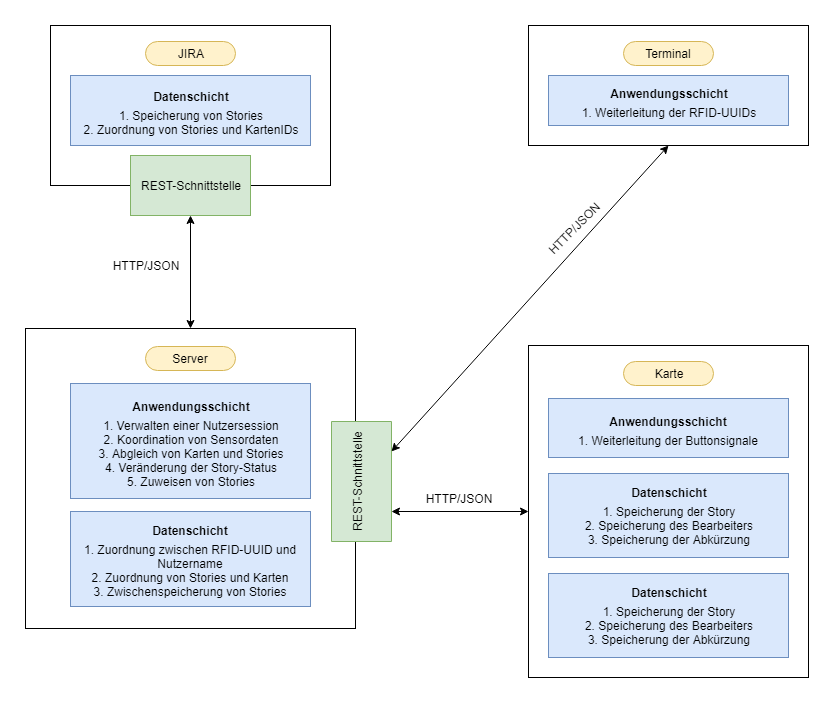
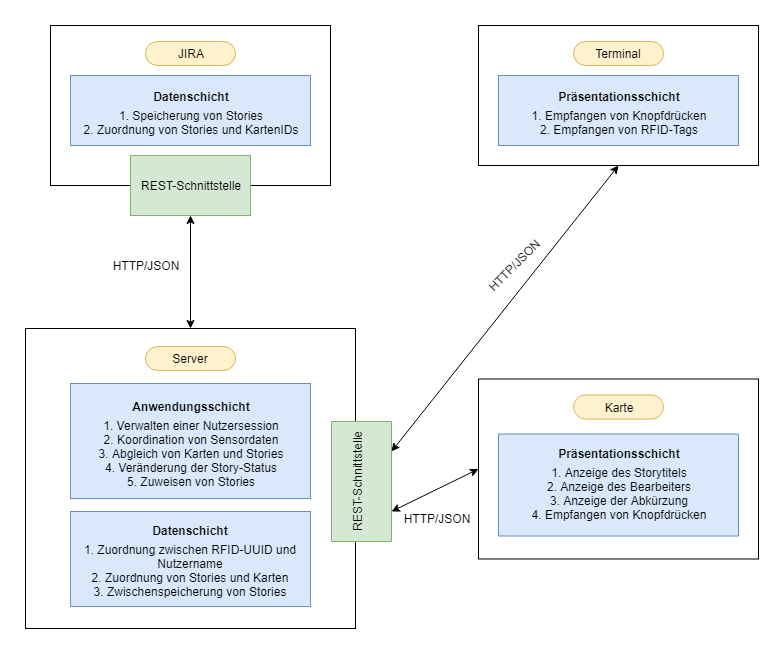
[DOC] Feedback from PP Review

diff --git a/Dokumente/Dokumentation.tex b/Dokumente/Dokumentation.tex
@@ -21,7 +21,7 @@ tmargin={2.5cm},bmargin = {2.5cm}]{geometry}
 		\subtitle{Praxisprojekt}
 		\author{Alexander Strutz \vspace{0.5cm}\\ Betreuer: 
 		Prof. Dr. Matthias Böhmer,\\Oliver Blum}
- 		\date{30. Juli 2019}
+ 		\date{29. Juli 2019}
 		\maketitle
 	\end{titlepage}
 	
@@ -32,8 +32,21 @@ tmargin={2.5cm},bmargin = {2.5cm}]{geometry}
 		Laut der Studie ''Status Quo Agile 2016/2017'' der Hochschule Koblenz verwenden 63\% der Software-Firmen und Agenturen agile Methoden in ihren täglichen Arbeitsprozessen \cite{hskob}. Agile, auch leichtgewichtig genannte Prozesse, können in verschiedenen Frameworks realisiert werden, jedoch orientieren sich alle an dem Rahmenwerk des ''Agilen Manifests''. Das agile Manifest setzt den Fokus auf die vier Werte ''Individuals and interactions over processes and tools'', ''Working software over comprehensive documentation'', ''Customer collaboration over contract negotiation'' und ''Responding to change over following a plan'' \cite{manifest}. Aus diesen Werten ergeben sich zwölf Prinzipien, die dem agilen Manifest angehören. Jedes agile Framework versucht die Werte und Prinzipien des Manifests umzusetzen und praktisch zu integrieren. \\ \\
 		Das in 82\% der befragten Firmen genutzte Framework ''Scrum'' gilt als meist genutzte agile Arbeitsmethode \cite{hskob}. Im Vordergrund stehen hierbei selbstorganisierte Teams. Diese Teams arbeiten interdisziplinär und bestehen aus drei bis neun Mitgliedern \cite{guide}. Sie ''entscheiden selbst, wie sie ihre Arbeit am besten erledigen, anstatt dieses durch andere Personen außerhalb des Teams vorgegeben zu bekommen'' \cite{guide}. Die zu erledigenden Aufgaben (''Stories'' genannt) werden durch den ''Product Owner'', einem Mitglied des Teams, in Absprache mit dem Kunden definiert und im ''Product Backlog'' priorisiert. Das Product Backlog listet alle Stories auf, die vom Product Owner erstellt wurden.\\ \\
 		Zu Beginn eines jeden Arbeitsinkrements, auch ''Sprint'' genannt, wählt das Team gemäß Priorisierung die Stories, die im folgenden Sprint zu bearbeiten sind. Jeder Sprint erhält ebenfalls ein Backlog, in dem Stories des Sprints nach ihrer Priorisierung gelistet enthalten sind. \\ \\
-		Die Stories werden anhand von ''Story Points'' in ihrer Komplexität geschätzt. Hierbei werden Punkte nicht nach Zeitaufwand, sondern nach vergleichbaren Stories vergeben. Möglich sind Punkte innerhalb der Fibonacci-Folge bis 40. Die Schätzung erfolgt gemeinsam durch das Team in einem sogenannten ''Refinement''. Der Sprint sollte so geplant werden, dass am Sprintende alle gewählten Stories erledigt sind. Eine Story kann hierbei drei Status einnehmen: ''To Do'', ''In Work'' oder ''Done''. Um das Team über die Status der einzelnen Stories informiert zu halten, gibt es täglich das ''Daily''. Hier berichtet jedes Teammitglied welche Story es am Vortag bearbeitet hat und ob sich der Status verändert hat. Um das Sprint Backlog zu visualisieren werden ''Boards'' verwendet. Bei diesen Boards kann es sich um Tafeln, Whiteboards oder ähnliches handeln, auf denen die Stories auf Zetteln ausgedruckt aufgehangen werden. Hierbei gibt es drei Spalten, die die Status der Stories abbilden. Im Daily werden die Stories gemäß dem aktuellen Status verschoben. Die Organisation und Administration des Boards obliegt dem ''Scrum Master'', der ''dafür verantwortlich ist, Scrum entsprechend des Scrum Guides zu fördern und zu unterstützen'' \cite{guide}. \\ \\
-		Das Board dient dem Team zur übersichtlichen Visualisierung des Sprints. Deshalb sollte es sich räumlich nah am Team befinden, bzw. gut vom Team erreichbar sein. Dem Kunden fehlt die Übersicht am Board jedoch, da dieser sich meistens nicht in direkter Nähe zum Team befindet. Daher wird die Darstellung der Stories oft durch Software wie z.B. ''JIRA'' von der Firma Atlassian umgesetzt. Auch hier lassen sich Stories in einem Sprint verplanen, mit Punkten schätzen und mit einem Status versehen. Da das Unternehmen ''kernpunkt'', in welchem diese Arbeit entwickelt wird, JIRA verwendet, fokussiert sich diese Arbeit auf JIRA als digitales Board, sowie die Arbeitsweise im Unternehmen.
+		Die Stories werden anhand von ''Story Points'' in ihrer Komplexität geschätzt. Hierbei werden Punkte nicht nach Zeitaufwand, sondern nach vergleichbaren Stories vergeben. Möglich sind Punkte innerhalb der Fibonacci-Folge bis 40. Die Schätzung erfolgt gemeinsam durch das Team in einem sogenannten ''Refinement''. Der Sprint sollte so geplant werden, dass am Sprintende alle gewählten Stories erledigt sind. Eine Story kann hierbei drei Status einnehmen: ''To Do'', ''In Work'' oder ''Done''. Um das Team über die Status der einzelnen Stories informiert zu halten, gibt es täglich das ''Daily''. Hier berichtet jedes Teammitglied welche Story es am Vortag bearbeitet hat und ob sich der Status verändert hat. Um das Sprint Backlog zu visualisieren werden ''Boards'' verwendet. Bei diesen Boards kann es sich um Tafeln, Whiteboards oder ähnliches handeln, auf denen die Stories auf Zetteln ausgedruckt aufgehangen werden. Hierbei gibt es drei Spalten, die die Status der Stories abbilden. Im Daily werden die Stories gemäß dem aktuellen Status verschoben. Die Organisation und Administration des Boards obliegt dem ''Scrum Master'', der ''dafür verantwortlich ist, Scrum entsprechend des Scrum Guides zu fördern und zu unterstützen'' \cite{guide}.
+		\begin{figure}[H] 
+  				\centering
+    			\includegraphics[height=0.3\textheight]{physicalBoardFar}
+  				\caption{Beispiel eines physischen Boards im Unternehmen kernpunkt}
+  				\label{fig:physKern}
+		\end{figure}
+		\noindent Das Board dient dem Team zur übersichtlichen Visualisierung des Sprints. Deshalb sollte es sich räumlich nah am Team befinden, bzw. gut vom Team erreichbar sein. Dem Kunden fehlt die Übersicht am Board jedoch, da dieser sich meistens nicht in direkter Nähe zum Team befindet. Daher wird die Darstellung der Stories oft durch Software wie z.B. ''JIRA'' von der Firma Atlassian umgesetzt. Auch hier lassen sich Stories in einem Sprint verplanen, mit Punkten schätzen und mit einem Status versehen.
+		 \begin{figure}[H] 
+  				\centering
+    			\includegraphics[height=0.37\textheight]{jiraFar}
+  				\caption{Darstellung einer Story in JIRA}
+  				\label{fig:ANHjirasKernFar}
+			\end{figure}
+		 \noindent Da das Unternehmen ''kernpunkt'', in welchem diese Arbeit entwickelt wird, JIRA verwendet, fokussiert sich diese Arbeit auf JIRA als digitales Board und die zusätzliche Nutzung von physischen Boards
 		\newpage
 		\section{Grundlagen}
 	Im Folgenden wird eine Einleitung in die Domäne, die Problemstellung mit ihren Folgen, sowie den verwendeten Paradigmen gegeben. Anschließend wird aus dieser Recherche eine Forschungsfrage abgeleitet.
@@ -111,20 +124,20 @@ tmargin={2.5cm},bmargin = {2.5cm}]{geometry}
 		\item Adaption der Funktionalität
 		\item Beibehaltung der Haptik 
 	\end{itemize}
-		\subsection{Aktuelle Marktsituation}
-		\subsubsection{Kartenscanner}
+		\subsection{Erhältliche Lösungen auf dem Markt}
+		\subsubsection{Physisches Board mit Nutzung eines Kartenscanners}
 		Eine Möglichkeit analoge und physische Boards zu synchronisieren sind sogenannte Kartenscanner \cite{cardscanner, truffler}. Hierbei werden die ausgedruckten Karten um einen QR-Code ergänzt. Eine Kamera ist auf das physische Board gerichtet und leitet jede Veränderung an das digitale Board weiter. Hierbei werden die QR-Codes zur Identifizierung der einzelnen Stories verwendet. Je nach System sind die Grenzen zwischen den Spalten ebenfalls durch QR-Codes gekennzeichnet. Wenn eine Karte im JIRA verändert wird, wird dies in der Software angezeigt. Die Software kann als JIRA oder als eigene Webapplikation umgesetzt sein. 
 		\\ \\
 		\textbf{Positiv: }Die Kamera bietet während des Sprints eine direkte Anpassung des digitalen Boards an das physische. Darüber hinaus bleibt die Möglichkeit Karten per Hand zu verschieben. Auch das Anzeigen von Karten mit unterschiedlichen Status hilft Inkonsistenzen zu vermeiden.
 		\\ \\
 		\textbf{Negativ: }Eine Fehlerquelle ist hierbei die Kamera. Denn die Erkennung der Karten könnte ausfallen, wenn es z.B. keine ausreichende Beleuchtung gibt. Die QR-Codes nehmen Platz auf den Karten ein ohne einen Mehrwert für das Team darzustellen. Unter Umständen sind somit größere Karten nötig, was wiederum für weniger Platz auf dem Board sorgt. Die Möglichkeit sich eine Story zuzuweisen fehlt auf dem physischen Board. Auch verringert sich der Aufwand der doppelten Sprintvorbereitung nicht, da ebenfalls Karten ausgedruckt werden müssen.
-		\subsubsection{Display mit JIRA}
+		\subsubsection{Display mit Abbildung des JIRA}
 		Die einfachste Lösung das physische Board mit JIRA synchron zu halten ist die Nutzung eines Displays. Dieses Display sollte eine gewisse Größe haben, um das Board anzuzeigen. Während des Dailys verschieben die Teammitglieder die Stories im JIRA mittels eines Rechners, der für das Board da ist.
 		\\ \\
 		\textbf{Positiv: }Durch die direkte Nutzung von JIRA entfällt die Aufgabe einer Synchronisierung. Außerdem können Teammitglieder, die sich nicht in der Firma befinden, am Daily teilnehmen und von überall auf das Board zugreifen. Die gesamte Funktionalität von JIRA kann genutzt werden. So können im Daily Bearbeiter zugewiesen, Storypunkte verändert oder Kommentare geschrieben werden.
 		\\ \\
 		\textbf{Negativ: }Die Kosten eines Display sind deutlich höher als die eines Whiteboards oder einer Tafel in der gleichen Größe. Darüber hinaus kann das Display nach dem Kauf nicht vergrößert werden, während physische Boards mit zusätzlichen Boards erweitert werden können. Dies kann vor allem bei sich stetig verändernden Teams zu einem Problem werden. Die Nutzung eines Displays sorgt außerdem für eine geringere Aufmerksamkeit seitens des Teams \cite{pen}. Die fehlende Haptik senkt die Motivation des Teams \cite{progress}. 
-		\subsubsection{Smartboards}
+		\subsubsection{Smartboards mit Abbildung des JIRA}
 		Die Nachteile eines Displays versuchen Smartboards aufzuheben. Smartboards bieten die Möglichkeit JIRA Boards darzustellen und können statt mit der Maus mit Berührungen gesteuert werden \cite{smart}. Smartboards besitzen kein eigenes Betriebssystem, sondern fungieren auch als Displays. Somit können auf diesen ebenfalls jegliche Informationen angezeigt werden.
 		\\ \\
 		\textbf{Positiv: }Auch hier lassen sich alle Funktionen des JIRA nutzen. Die Synchronisierung entfällt auch hier. Zusätzlich kann man von einer ''Teilhaptik'' sprechen, da man das Display mit den Händen bedienen kann. 
@@ -204,7 +217,7 @@ Die dritte Kernfunktionalität ist die Verbindung mit dem Server. Die Karte muss
 		Zur Identifizierung der Teammitglieder werden RFID-Tags verwendet. Jedes Mitglied erhält einen Tag, der eine eindeutige ID enthält. Die Zuordnung von IDs zu Mitgliedern ist auf dem Server gespeichert. Damit dieser Tag vom Terminal verarbeitet werden kann enthält es einen entsprechenden Sensor. Wie auch bei der Karte soll ein möglichst großer Teil der Anwendungslogik auf den Server ausgelagert werden. Daher liest das Terminal lediglich die IDs aus und sendet sie zusammen mit der aktuellen Uhrzeit an den Server. \\ \\
 		Wird der erste RFID-Tag an den Leser gehalten, beginnt für das System eine Session, also ein Daily mit der ersten angemeldeten Person. Werden nun Karten verschoben, werden sie im JIRA der angemeldeten Person zugewiesen. Sobald der nächste Tag an das Terminal gehalten wird, verändert sich auch der zuzuweisende Bearbeiter der Story. Damit nicht der letzte Teilnehmer des Daily bis zum nächsten Daily ''angemeldet'' bleibt, wird er nach einer Inaktivität von 10 Minuten abgemeldet. \\ \\
 		Alternativ zu einem Anmeldeterminal wäre es auch möglich die Karten mit einem RFID-Sensor auszustatten. Jedoch müssen die Teammitglieder dann ihren Tag an jede Karte einzeln halten, um sich einer Story zuzuweisen, was im Daily störender ist als sich nur zu Beginn anzumelden. Außerdem bekämen die Karten dadurch zum einen mehr Anwendungslogik, aber auch ein größeres Gewicht, was wie zuvor erwähnt vermieden werden soll. \\ 
-		\subsection{Skizzierung der Architektur}
+		\subsection{Skizzierung der Systemarchitektur}
 		In Abbildung \ref{fig:Architekturskizze} wird die verteilte Systemarchitektur erläutert. Hierbei wird das Anwendungsschichtprotokoll HTTP mit der Datenstruktur JSON genutzt. Als Schnittstelle wird hierbei das Konzept REST verwendet.  \\
 		\begin{figure}[htbp] 
   			\centering
@@ -213,7 +226,7 @@ Die dritte Kernfunktionalität ist die Verbindung mit dem Server. Die Karte muss
   			\label{fig:Architekturskizze}
 		\end{figure}
 	\newpage	
-	\section{Technologieentscheidung}
+	\section{Abwägung und Entscheidung zwischen erhältlichen Technologien}
 	In diesem Kapitel werden Technologien für die in der Systemarchitektur enthaltenen Komponenten recherchiert und bewertet. Der Fokus liegt hier auf der Eignung zur Implementation der Anforderungen und Umsetzung der User Stories.
 		\subsection{Mikrocomputer und Mikrocontroller}
 		Jede Karte sowie das Anmeldeterminal benötigen einen eigenen Mikrocontroller. Dieser sollte möglichst klein und leicht sein, um mit wenigen Magneten am Board befestigt zu werden. Für einen Einsatz der Karte über einen Sprint hinweg sollte der Mikrocontroller einen geringen Stromverbrauch haben, sodass er durch einen austauschbaren Akku betrieben werden kann. Von Vorteil ist ein integrierter WLAN-Chip, um Verkabelungen und zusätzliche Hardware zu reduzieren. Weniger relevant sind die Speichergröße und die Rechenleistung, da die meiste Logik auf dem Server hinterlegt werden kann. 
@@ -241,27 +254,29 @@ Daher eignen sich e-Ink Displays sehr gut für eine längere Nutzung, insbesonde
 			Das Modul RDM6300 der Firma Seeedstudio besteht aus einem eigenen Board mit Ein-/Ausgängen. Dazu wird eine Spule, die ein elektromagnetisches Feld erzeugt, mit den Eingängen des Boards verbunden. Die Ausgänge werden mit dem entsprechenden Mikrocontroller verbunden. Diese Architektur hat den Nachteil, dass sie mehr Platz verbraucht und doppelt verkabelt werden muss. Jedoch lässt sich so die Spule bzw. das Board oder Kabel bei einem Defekt einfacher austauschen.
 			\subsubsection{RC522}
 			Der RFID-Reader RC522 ist von verschiedenen Händlern erhältlich und bietet die gleiche Funktionalität wie der RDM6300. Allerdings ist der Leser hier im Modul integriert. So muss nur einmal verkabelt werden. Außerdem nimmt er weniger Platz ein und bietet eine Verbindung über die SPI Schnittstelle an \cite{rfidspecs}. Insbesondere durch die Abmessungen eignet er sich hier besser und wird daher im Prototyp verwendet.
-		\subsection{Veränderungen des Status} \label{changeStatus}
+		\subsection{Veränderungen des Status mittels Sensorik} \label{changeStatus}
 		Um den Status einer Story zu erfassen, soll es möglich sein diesen an einer Karte zu verändern. Wichtig hierbei sind Minimierung möglicher Fehler, eine einfache Wartung und Portierbarkeit. Auch sollte die Lösung keine weitere Stromversorgung seitens der Karte benötigen.
-			\subsubsection{RFID}
+			\subsubsection{Bestimmung der Position durch RFID-Tags}
 			RFID-Reader können entsprechende Tags in sehr kurzer Zeit erkennen und ihre ID auslesen. Daher wäre es auch möglich das Board mit RFID-Folie zu bekleben und die Karten mit Reader auszustatten. Je nach dem um welche Spalte es sich handelt, besitzt diese eine andere ID. Sobald der Reader in der Karte eine neue ID erkennt, leitet er diese an den Server weiter, der dementsprechend den Status der Story verändert. Die Präparierung des Boards wäre ein aufwendiger Prozess. Auch müsste so jede Karte einen RFID-Leser besitzen, wodurch die Karte größer und unhandlicher wird. Außerdem steigt der Stromverbrauch der Karte.
-			\subsubsection{Vibrationssensor}
+			\subsubsection{Ausstatten der Karten mit Vibrationssensor}
 			Vibrationssensoren messen Erschütterungen und geben diese als analogen Wert an einen Mikrocontroller weiter. Je höher die Bewegung, desto höher der entsprechende Wert. Ein solcher Sensor könnte in einer Karte angebracht werden. Wenn eine Karte z.B. in To Do hängt und der Vibrationssensor eine Bewegung vermerkt, kann die Karte diese an den Server weiterleiten. Der Server ändert den Status im JIRA dann auf In Work. Um die Interpretation von allgemeinen Erschütterungen nicht als Statusveränderung zu interpretieren, wird der Sensor erst aktiv, wenn sich ein Teammitglied per RFID am Daily anmeldet. Ein großes Problem ist hier das Zurückstellen von Stories und Karten. So kann ein Teammitglied eine Karte nicht in einen vorherigen Status überführen. Außerdem gibt es Dailies, in denen die Teammitglieder die Karte über die sie reden in die Hand nehmen, obwohl sie den Status nicht verändern. Aufgrund dieser Fehleranfälligkeit eignen sich Vibrationssensoren nicht.
-			\subsubsection{Infrarot}
+			\subsubsection{Bestimmung der Position durch Infrarot}
 			Infrarotsensoren messen eine Infrarotstrahlung und geben die entsprechende Frequenz zurück. Wenn man das Board mit Infrarotsendern (beispielsweise über jeder Spalte in Richtung Boden) auf verschiedenen Frequenzen ausstattet, könnte man diese Strahlung über die Karte auslesen. Allerdings ist dieses Verfahren ungenau, da die Sender die Strahlen nicht gezielt nach unten strahlen können, sondern eher streuen, wie z.B. bei Lampen. Daher ließe sich zwar mit einem Sensor eine Strahlung messen, jedoch könnte man diese nicht exakt einem Sensor zuordnen, wodurch diese Methode zu fehleranfällig ist.
-			\subsubsection{Bluetooth Beacons}
+			\subsubsection{Bestimmung der Position durch Bluetooth Beacons}
 			Eine genauere Positionsmessung bieten Bluetooth Beacons an. Diese senden von ihrem Standort eine eindeutige Kennung, die sogenannte UID, ab. Diese kann ein Client (bspw. ein Smartphone) lesen und dadurch seinen Abstand zum Beacon ermitteln \cite{bluetoothspecs}. Mit mehreren Beacons ist so eine Positionsermittlung des Clients möglich. Karten lassen sich mit eigenen Sensoren so auf dem Board lokalisieren. Das größte Problem stellt hier die Stromversorgung dar. So brauchen die einzelnen Beacons jeweils eine eigene Stromversorgung, aber auch die einzelnen Sensoren benötigen Strom von der Karte. Darüber hinaus ist das System schwieriger einzurichten, da die Beacons für jedes Board (je nach Größe und Anordnung der Spalten) neu konfiguriert werden müssen, insbesondere bei Boards, die nicht nur drei, sondern sechs oder mehr Spalten nebeneinander haben.
-			\subsubsection{Schalter}
+			\subsubsection{Schalter an der Karte zur manuellen Statusveränderung}
 			Die technisch schlichteste Lösung ist ein zusätzlicher Taster, Knopf oder Schalter an einer Karte. Da dieser ein analoges Signal zurückgibt, kann er als Interrupt im Deep Sleep Mode verwendet werden, was den Stromverbrauch niedrig hält. Bei Knopfdruck kann der Status einer Karte ''erhöht'' werden, also von To Do auf In Work auf Done.  Wenn man den Status erniedrigen will, kann man nach Done nochmals den Schalter betätigen, um wieder auf To Do zu kommen. Diese Umsetzung ist auf jedes Board übertragbar und benötigt keine besondere Installation oder Konfiguration. Auch lässt sich die Zuweisung damit identifizieren. Wenn nach einer Anmeldung im Daily der Knopf betätigt wird, wird der Status verändert und der angemeldete Mitarbeiter der Story zugewiesen. Wenn eine Story auf ein anderes Teammitglied übertragen werden soll, kann nach Anmeldung der Knopf betätigt werden. Wenn das entsprechende Mitglied dann noch nicht zugewiesen ist, wird es zugewiesen. Erst ein weiterer Knopfdruck ändert den Status. \\ \\
 Jedoch ist ein Schalter keine automatisierte Lösung, wodurch das Daily komplizierter und länger wird. Insbesondere das Verschieben in einen vorherigen Status muss somit mit dreimaligem Drücken kenntlich gemacht werden. Auch kann das System nicht erkennen wo sich eine Karte aktuell befindet, sondern es nur speichern. So sind alle Karte zu Sprintbeginn in To Do. Wenn nun ein Knopf betätigt wird, speichert das System dies, kann es aber nicht mit dem Board prüfen. Bei einer manuellen Statusänderung im JIRA kann eine Inkonsistenz zum physischen Board nur durch die gespeicherten Status auf dem Server geprüft werden. \\ \\
 Im Prototyp werden die Karten mit Schaltern ausgestattet. Das stellt jedoch keine dauerhafte Lösung dar. Wenn die Nutzer in der Evaluation Probleme mit der Benutzung bekommen, werden hier weitere Technologien und Ansätze in Erwägung gezogen. Die vierte Story ''Status von Stories und Unteraufgaben verändern'' lässt sich damit jedoch umsetzen.
-		\subsection{Server} \label{techserver}
+		\subsection{Server als REST-API zur Kommunikation mit JIRA und Karte} \label{techserver}
 		Boards wie das ESP8266 besitzen einen verhältnismäßig geringen Speicher und können keine aufwendigen Prozesse ausführen. Aus diesem Grund soll ein möglichst großer Teil der Anwendungslogik auf einen Server verlagert werden, der sowohl mit den einzelnen Karten als auch mit JIRA kommuniziert. Weitere Systeme, die in Zukunft an das neue Board verknüpft werden, sollten ebenfalls mit diesem Server kommunizieren. \\ \\
 		Es wird sich um einen REST-Server handeln, da sich der ESP8266 relativ einfach mit diesem verbinden kann \cite{nodemcuexamples}. Umgesetzt wird der Server im Javascript-Framework NodeJS mit Nutzung der Middleware Express. Über HTTP tauschen sich die Karte und das Terminal mit dem Server aus. Dazu stellt der Server verschiedene Endpunkte bereit, über die Daten gesendet und empfangen werden können. Die Daten werden im JSON-Format versendet, da sie sowohl vom Server, als auch von der Karte leicht zu verarbeiten sind \cite{arduinojson}. \\ \\
 		Die Kommunikation mit dem digitalen Board findet über die ''Jira Software Server REST API'' statt \cite{jiraapi}. Hier werden Informationen zu Stories und Unteraufgaben geladen, sowie Status und Bearbeiter von Stories und Unteraufgaben verändert und angepasst. Die Authentifizierung findet durch HTTP Basic mit SSL Verschlüsselung statt, wobei die Zugangsdaten auf dem Server gespeichert sind. Um Missbrauch durch Nutzung des Servers zu verhindern, muss sich dieser im selben Netz wie die Karte und das Terminal befinden und darf nicht von außen erreichbar sein. Ist dies doch der Fall, so müssen die Zugangsdaten in der Karte und dem Terminal gespeichert sein, sodass der Server diese an die JIRA API weiterleitet. Für den Prototyp reicht es aus die Daten serverseitig zu speichern und diesen nur in Betrieb zu nehmen, wenn das System getestet wird. Die Requests an das JIRA werden mit dem Node-Modul axios versendet \cite{npmaxios}.
 		\subsection{Auswahl der JIRA API zur Anbindung des digitalen Boards} \label{decideJira}
 		Es gibt verschiedene Möglichkeiten mit einem JIRA programmatisch zu interagieren. So gibt es grundlegend zwei APIs, die genutzt werden können \cite{jiraapi}. Die ''Service Desk Server REST API'' bietet die Möglichkeit Kundenanfragen zu verarbeiten und tangiert die Möglichkeit in JIRA Stories zu formulieren und abzurufen nicht und eignet sich daher nicht \cite{jiraserviceapi}. Darüber hinaus gibt es die ''Server platform REST API'', die die Möglichkeit gibt die JIRA Server-Anwendung anzusprechen, in der Stories und Issues gespeichert sind \cite{jiraserverapi}. Daher wird diese API verwendet.\\ \\
 		Um das digitale Board in Form von JIRA mit der Karte zu verknüpfen muss es möglich sein einer Story eine Karte zuzuweisen. Dazu soll eine Story eine neue Eingabekomponente, ein sogenanntes ''Custom Field'', erhalten \cite{jiracustomfield}. In diesem Feld wird eine eindeutige ID eingetragen, die jede Karte vorher erhalten hat. So kann der Server die JIRA API nach einer Story und dem Custom Field anfragen und somit Karte und Story verbinden. 
+		\subsection{Stromversorgung der Karte mittels mobiler Stromzufuhr}
+		Die Versorgung der Karte erfolgt in der Entwicklungsphase stationär. Für ein im Alltag taugliches System muss hier eine Lösung gefunden werden. Hierbei sollte die Stromversorgung in der Karte integriert sein und mindestens die Länge eines Sprints halten. Die Nutzung von Akkus über die USB-Schnittstelle ist nicht möglich, da die verbrauchte Stromstärke des ESP zu gering ist, um z.B. im Deep Sleep versorgt zu werden. Im Rahmen der weiteren Entwicklung muss in der Bachelorarbeit hier eine Lösung seitens der Hardware gefunden werden.
 	\newpage
 	\section{Implementation des Prototypen} \label{impl}
 	Im folgenden Kapitel wird die Umsetzung der User Stories in Form eines Prototypen erläutert. Hierbei liegt der Fokus auf der Anwendungslogik und den Anschluss von Sensoren an die jeweiligen Mikrocontrollern.
@@ -438,7 +453,7 @@ Somit wurde die Story ''Story einer Karte zuweisen'' erfüllt. Alle Akzeptanzkri
 			Die Authentifizierung ist durch die RFID-Tags und die Zuordnung in Anhang \ref{ANHUser} umgesetzt. Ein angemeldetes Teammitglied wird bei Statusveränderung der Story an den Server weitergeleitet. Dieser weist die Story mittels der Ressource ''/issue/:issueId'' dem richtigen Teammitglied zu. Das Anzeigen des neuen Bearbeiters fehlt noch. Um dies umzusetzen muss die Karte automatisch nach der Anpassung aktualisiert werden. \\ \\
 			Die Funktion der Zuweisung wurde umgesetzt und kann verwendet werden. Allerdings gestaltet sich diese umständlich, wenn der Status der Story nicht verändert werden muss. Zusätzlich fehlt eine automatische Aktualisierung der Karte nach Veränderung des Bearbeiters. 
 			\subsection{Status von Stories und Unteraufgaben verändern}
-			Die Statusveränderung ist durch Knopfdruck und anschließender Weiterleitung an den Server durch die Karte möglich. Auch Fehler sind damit abgedeckt, da ein Teammitglied an einen vorherigen Status zurückkehren kann durch mehrmaliges Betätigen. Dieser Ablauf lässt sich jedoch noch verbessern. So könnte der Knopfdruck durch Sensorik ersetzt werden, bei der die Karte automatisch erkennt, in welchem Status sie sich befindet. Damit würde dem Team der Umgang mit dem Board erleichtert werden. Die genaue Technologie muss abgewägt werden, um einerseits den Stromverbrauch der Karte gering zu halten und andererseits die Anpassungen am Board klein zu halten, um das System einfach auf verschiedenen physischen Boards zu installieren und konfigurieren. \\ \\
+			Die Statusveränderung ist durch Knopfdruck und anschließender Weiterleitung an den Server durch die Karte möglich. Auch Fehler sind damit abgedeckt, da ein Teammitglied an einen vorherigen Status zurückkehren kann durch mehrmaliges Betätigen. Dieser Ablauf lässt sich jedoch noch verbessern. So könnte der Knopfdruck durch Sensorik ersetzt werden, bei der die Karte automatisch erkennt, in welchem Status sie sich befindet. Damit würde dem Team der Umgang mit dem Board erleichtert werden. Die genaue Technologie muss abgewägt werden, um einerseits den Stromverbrauch der Karte gering zu halten und andererseits die Anpassungen am Board klein zu halten, um das System einfach auf verschiedenen physischen Boards zu installieren und konfigurieren. Ebenfalls fehlt es hier an einem Feedback bei Knopfdruck, sodass den Teammitgliedern bewusst ist, dass die Karte den Input erhalten und verarbeitet hat. Hier würde ein Signal beispielsweise per LED oder Lautsprecher Teammitglieder unterstützen. \\ \\
 			Generell wurde diese Story mit einfachen Mitteln erfüllt, jedoch gibt es hier ein großes Potenzial zur Verbesserung in der Bachelorarbeit.
 	\newpage	
 	\section{Fazit}
@@ -502,8 +517,66 @@ Somit wurde die Story ''Story einer Karte zuweisen'' erfüllt. Alle Akzeptanzkri
 			\end{figure}
 		\newpage 	  	
  	  	\section{Physisches Board} \label{ANHPhysischesBoard}
+ 	  		\begin{figure}[H] 
+  				\centering
+    			\includegraphics[height=0.3\textheight]{physicalBoardFar}
+  				\caption{Beispiel eines physischen Boards im Unternehmen kernpunkt}
+  				\label{fig:ANHphysKern}
+			\end{figure}
+			\begin{figure}[H] 
+  				\centering
+    			\includegraphics[height=0.3\textheight]{physicalBoardNear}
+  				\caption{Spalten des physischen Boards}
+  				\label{fig:ANHphysKernNear}
+			\end{figure}
 		\newpage 	  	
+ 	  	\section{Digitales Board} \label{ANHJIRA}
+ 	  		\begin{figure}[H] 
+  				\centering
+    			\includegraphics[height=0.37\textheight]{jiraFar}
+  				\caption{Darstellung einer Story in JIRA}
+  				\label{fig:ANHjirasKernFar}
+			\end{figure}
+			\begin{figure}[H] 
+  				\centering
+    			\includegraphics[height=0.18\textheight]{jiraAssignee}
+  				\caption{Darstellung eines Bearbeiters in JIRA}
+  				\label{fig:ANHjirasKernAsign}
+			\end{figure}
+			\begin{figure}[H] 
+  				\centering
+    			\includegraphics[height=0.15\textheight]{jiraSubtasks}
+  				\caption{Darstellung von Unteraufgaben in JIRA}
+  				\label{fig:ANHjirasKernSub}
+			\end{figure}
+ 	  	\newpage 	  	
  	  	\section{Prototyp} \label{ANHPrototyp}
+ 	  		\subsection{Karte}
+ 	  		\begin{figure}[H] 
+  				\centering
+    			\includegraphics[height=0.4\textheight]{cardFar}
+  				\caption{Prototyp zur Darstellung von Stories und Unteraufgaben}
+  				\label{fig:ANHcardFar}
+			\end{figure}
+			\begin{figure}[H] 
+  				\centering
+    			\includegraphics[height=0.4\textheight]{cardNear}
+  				\caption{Nahaufnahme mit Blick auf die verwendeten GPIO-Pins}
+  				\label{fig:ANHcardNear}
+			\end{figure}
+			\subsection{Terminal}
+			\begin{figure}[H] 
+  				\centering
+    			\includegraphics[height=0.4\textheight]{terminalFar}
+  				\caption{Prototyp zur Anmeldung von Teammitgliedern}
+  				\label{fig:ANHterminalFar}
+			\end{figure}
+			\begin{figure}[H] 
+  				\centering
+    			\includegraphics[height=0.4\textheight]{terminalNear}
+  				\caption{Nahaufnahme mit Blick auf die verwendeten GPIO-Pins}
+  				\label{fig:ANHterminalNear}
+			\end{figure}
  	\end{appendix}
  	
  	\newpage
